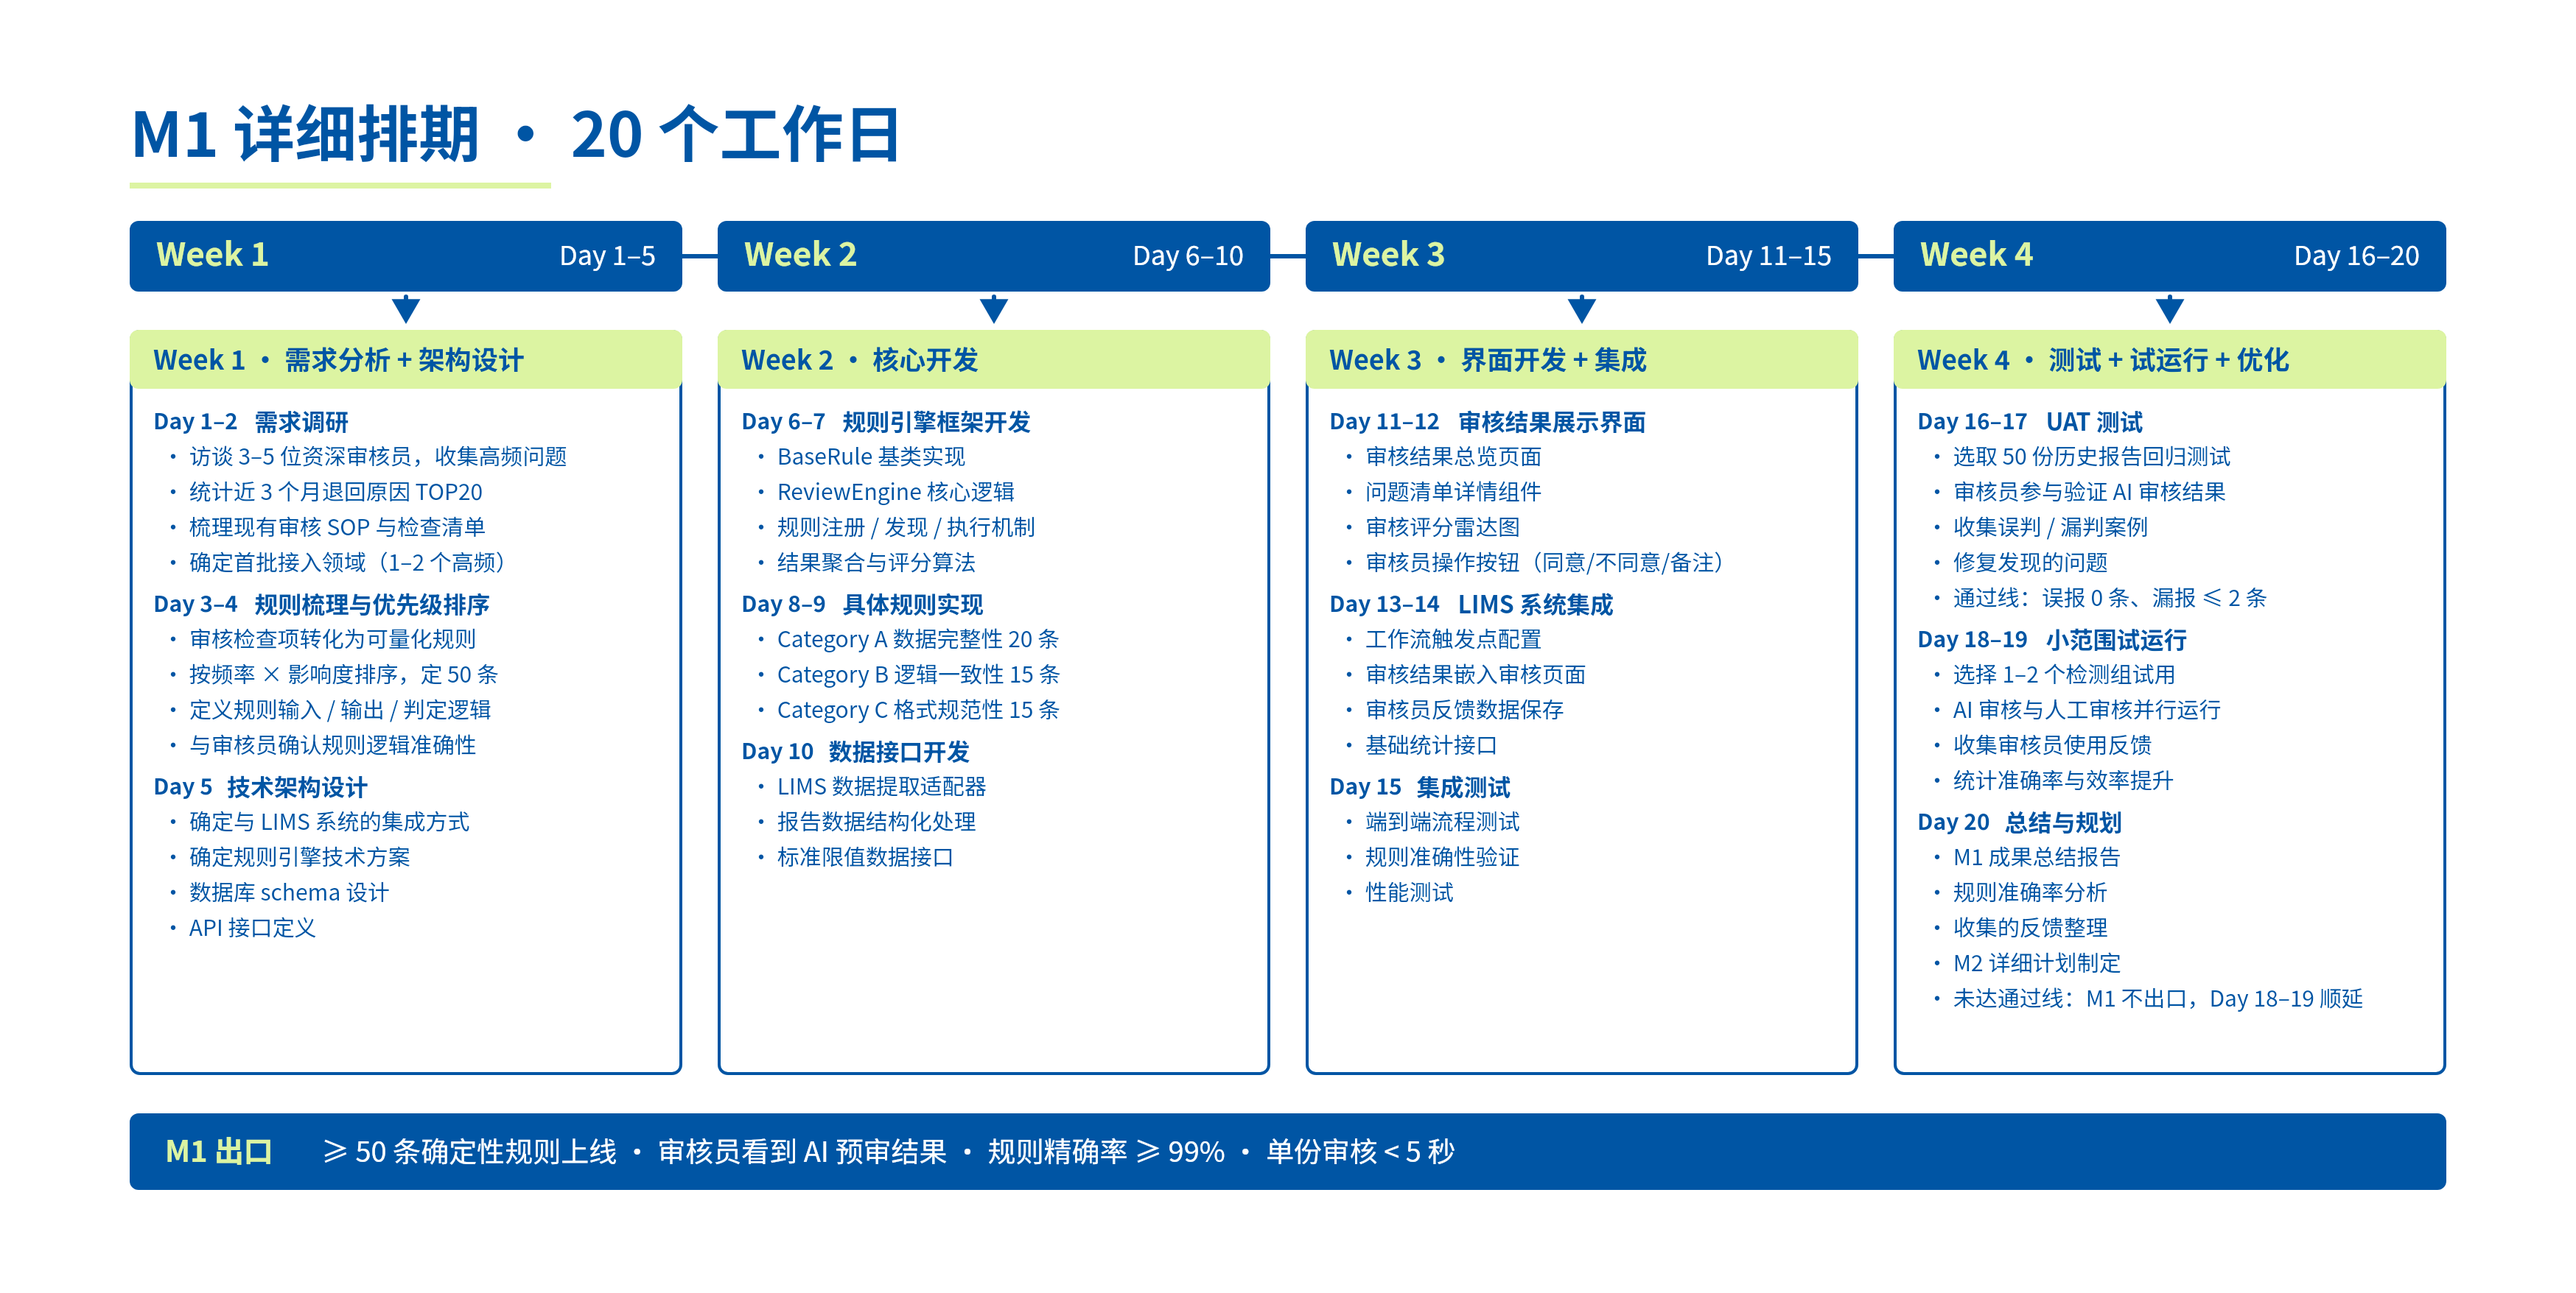
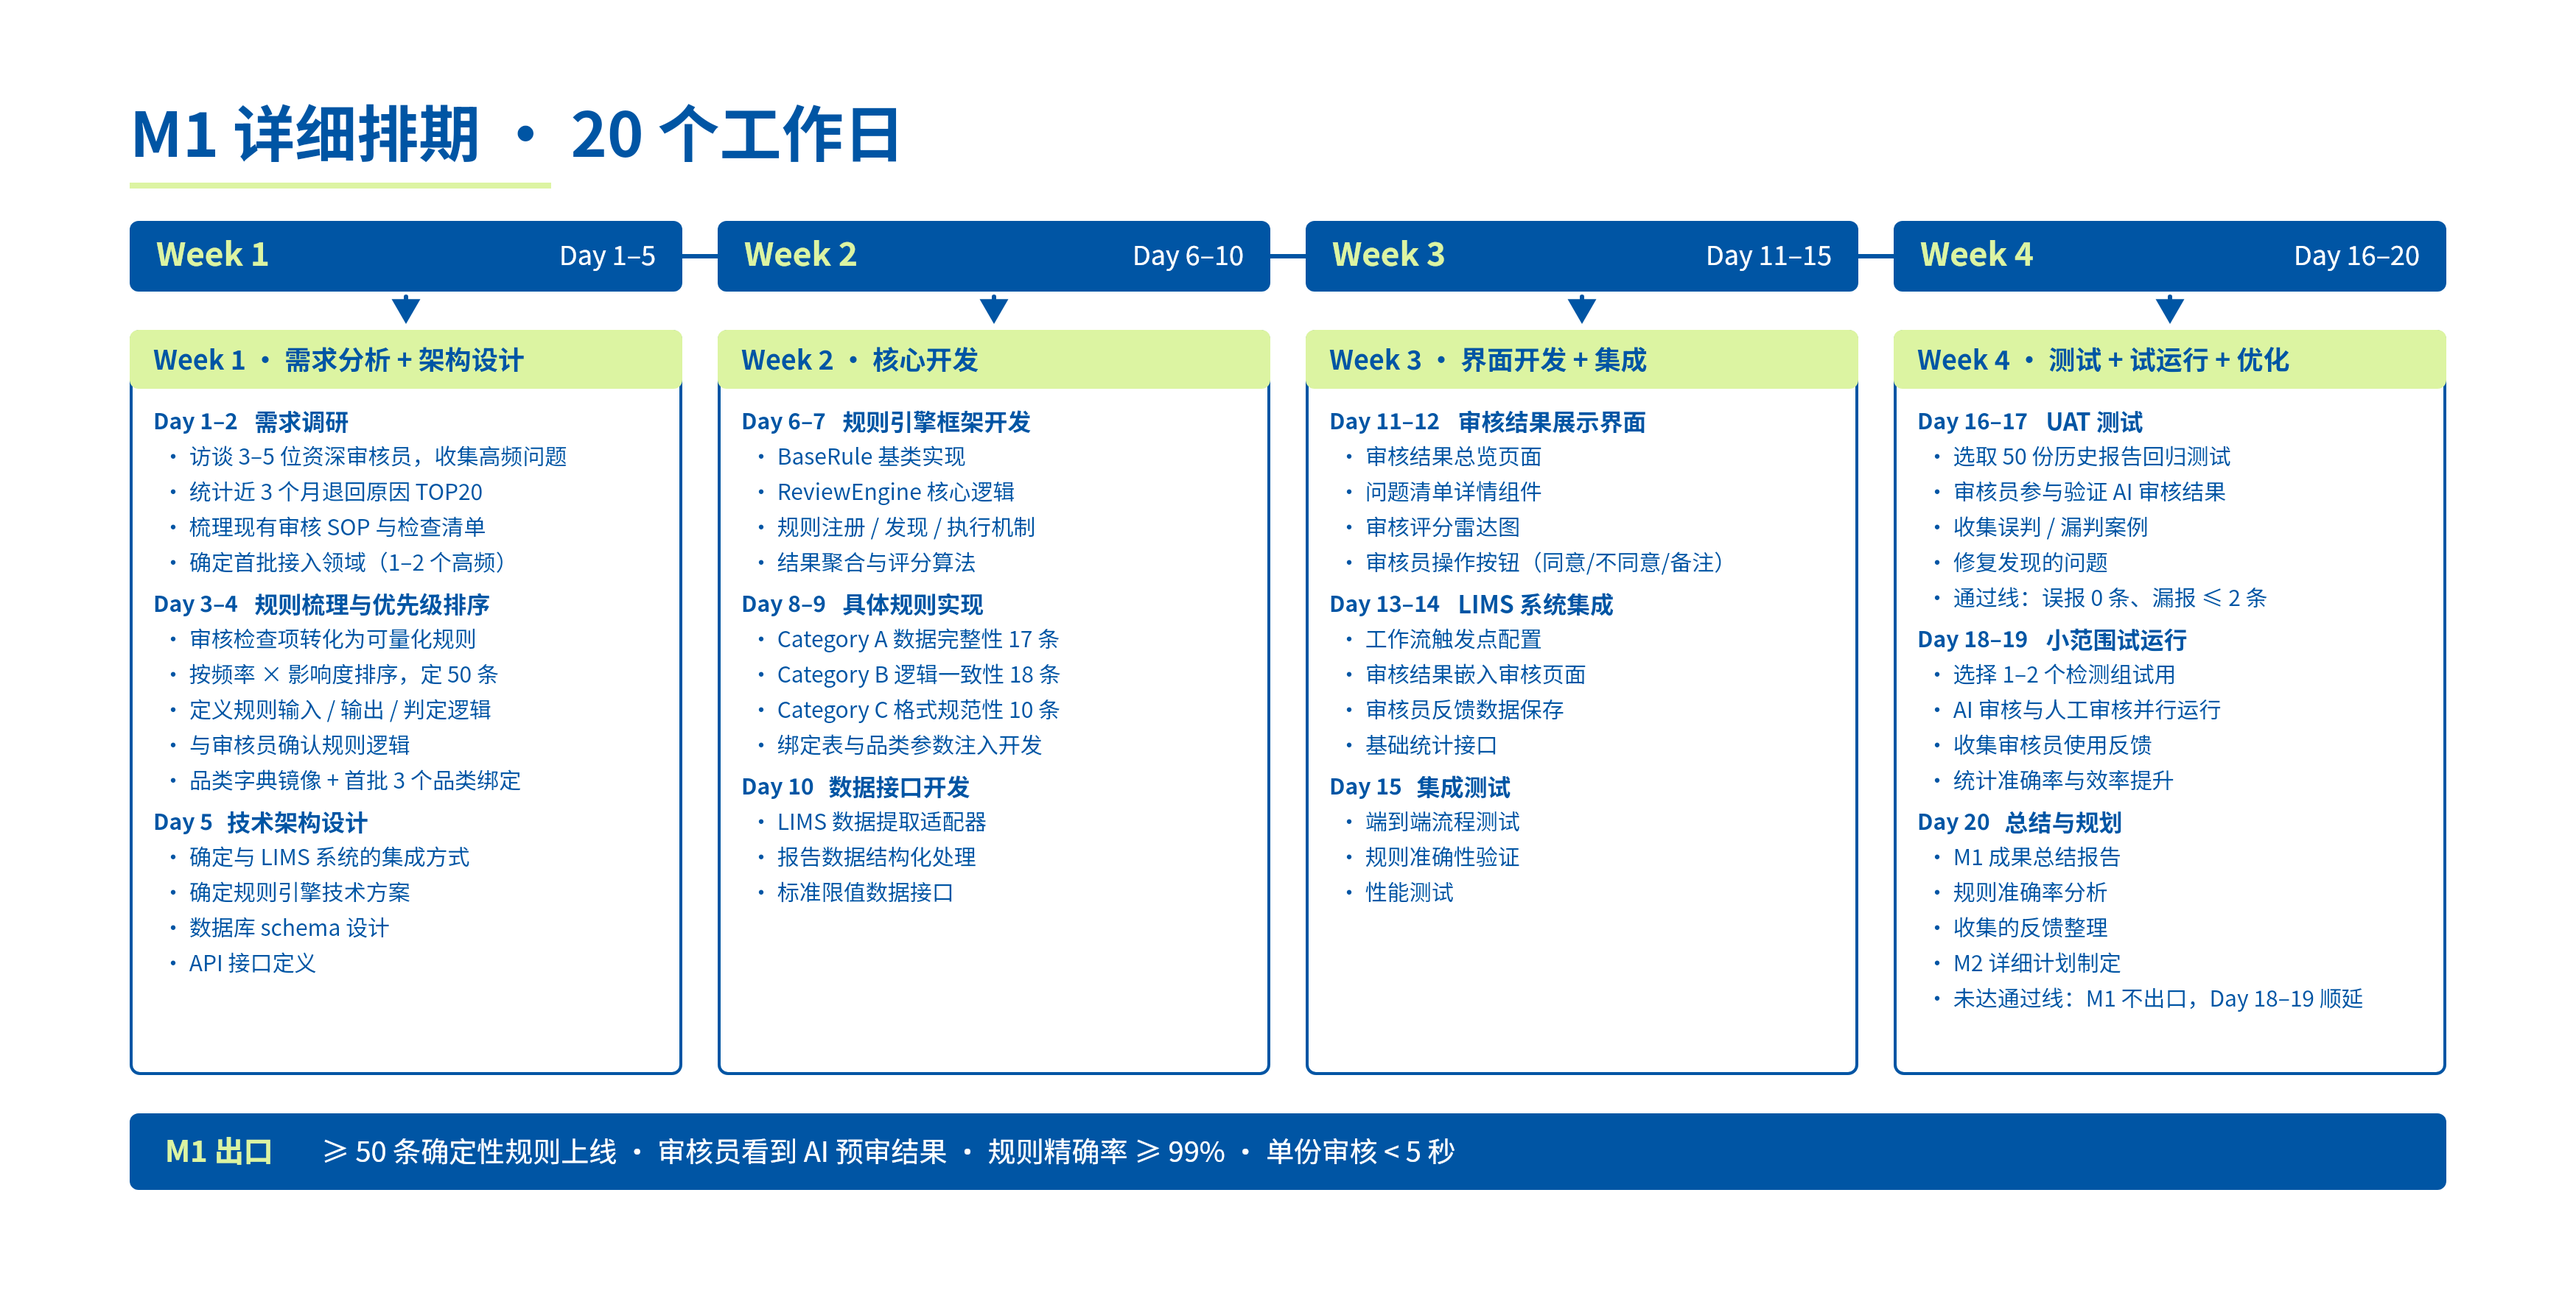
docs(lims-ai-review): T9 时间轴加品类镜像与绑定开发；3.2.1 条数对齐 17/18/10

Changed region(s): [[0.0624, 0.5535, 0.2182, 0.7688], [0.2806, 0.5535, 0.4053, 0.7073]]

diff --git a/docs/feishu/lims-ai-review/make_timeline.py b/docs/feishu/lims-ai-review/make_timeline.py
@@ -6,12 +6,12 @@ LX = 64
 weeks = [
     ("Week 1", "Day 1–5", "需求分析 + 架构设计", [
         ("Day 1–2", "需求调研", ["访谈 3–5 位资深审核员，收集高频问题", "统计近 3 个月退回原因 TOP20", "梳理现有审核 SOP 与检查清单", "确定首批接入领域（1–2 个高频）"]),
-        ("Day 3–4", "规则梳理与优先级排序", ["审核检查项转化为可量化规则", "按频率 × 影响度排序，定 50 条", "定义规则输入 / 输出 / 判定逻辑", "与审核员确认规则逻辑准确性"]),
+        ("Day 3–4", "规则梳理与优先级排序", ["审核检查项转化为可量化规则", "按频率 × 影响度排序，定 50 条", "定义规则输入 / 输出 / 判定逻辑", "与审核员确认规则逻辑", "品类字典镜像 + 首批 3 个品类绑定"]),
         ("Day 5", "技术架构设计", ["确定与 LIMS 系统的集成方式", "确定规则引擎技术方案", "数据库 schema 设计", "API 接口定义"]),
     ]),
     ("Week 2", "Day 6–10", "核心开发", [
         ("Day 6–7", "规则引擎框架开发", ["BaseRule 基类实现", "ReviewEngine 核心逻辑", "规则注册 / 发现 / 执行机制", "结果聚合与评分算法"]),
-        ("Day 8–9", "具体规则实现", ["Category A 数据完整性 20 条", "Category B 逻辑一致性 15 条", "Category C 格式规范性 15 条"]),
+        ("Day 8–9", "具体规则实现", ["Category A 数据完整性 17 条", "Category B 逻辑一致性 18 条", "Category C 格式规范性 10 条", "绑定表与品类参数注入开发"]),
         ("Day 10", "数据接口开发", ["LIMS 数据提取适配器", "报告数据结构化处理", "标准限值数据接口"]),
     ]),
     ("Week 3", "Day 11–15", "界面开发 + 集成", [
